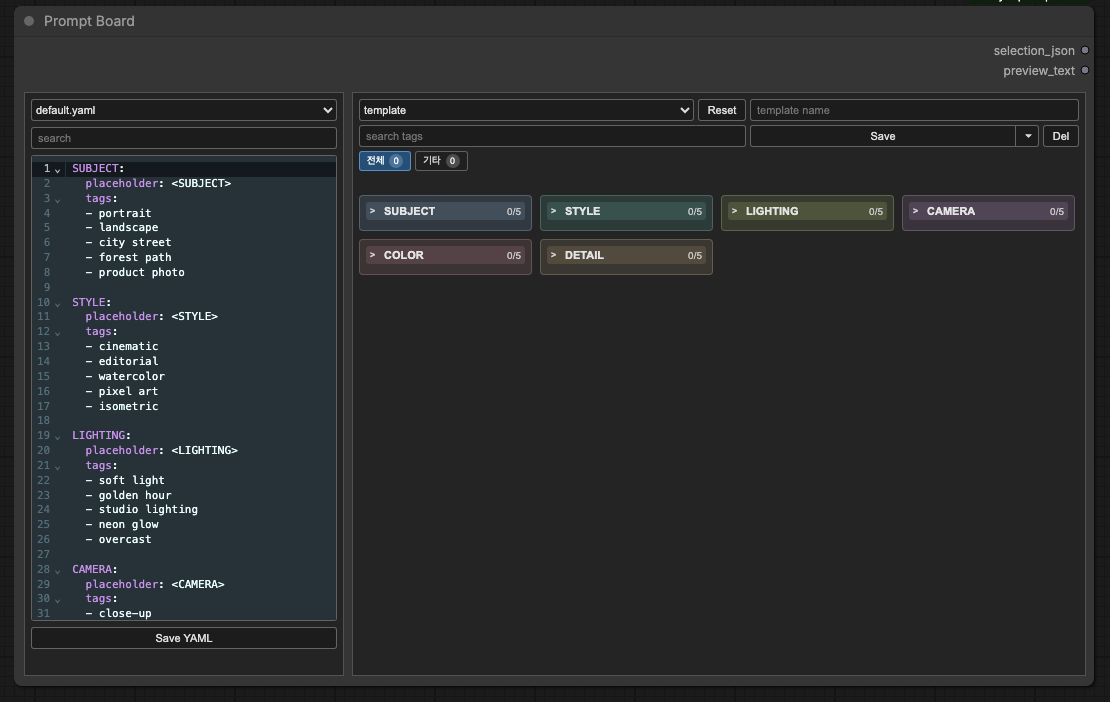
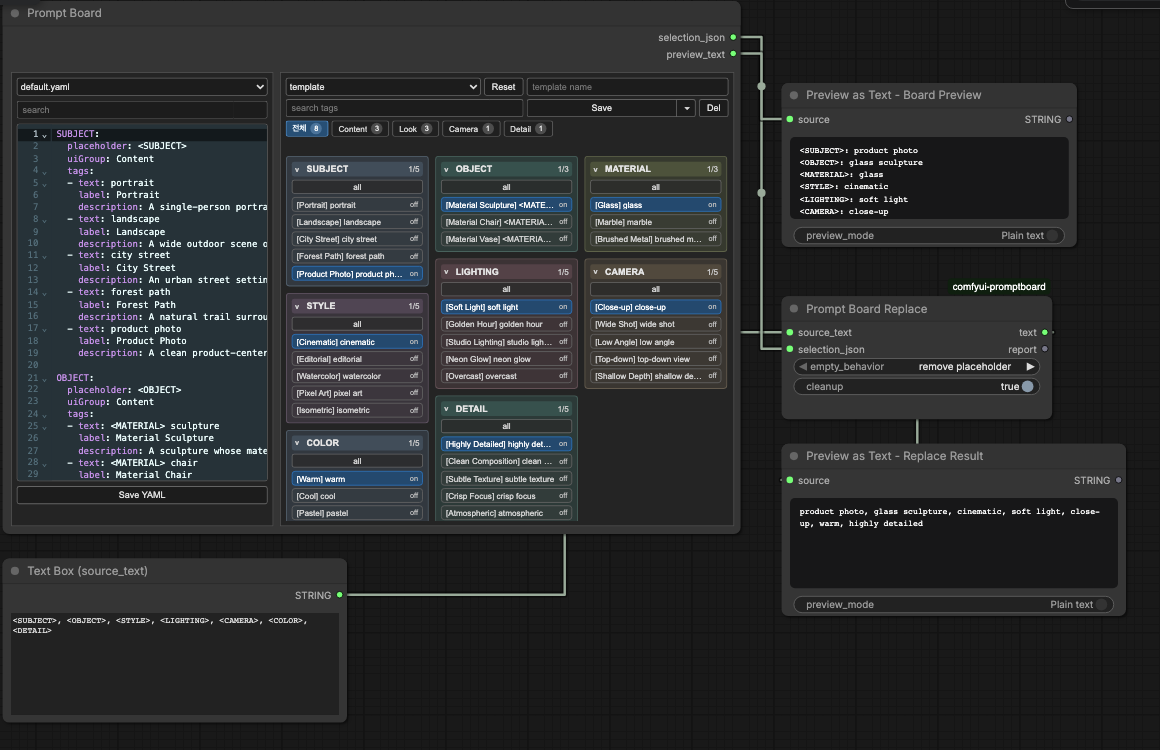
docs: update prompt board default example

diff --git a/README.md b/README.md
@@ -75,7 +75,13 @@ Disabled rows, empty names, `None`, and rows where both strengths are `0` are sk
 
 ### Prompt Board
 
-The board screenshot below uses the included `default.yaml` starter tag file.
+The workflow screenshot below uses the included `default.yaml` starter tag file. It shows the current board structure and a complete text flow:
+
+- `Text Box (source_text)` provides source text with placeholders.
+- `Prompt Board` selects YAML-managed tags and sends `preview_text` to `Preview as Text - Board Preview`.
+- `Prompt Board Replace` receives `source_text` and `selection_json`, then sends its replaced `text` output to `Preview as Text - Replace Result`.
+
+The example also demonstrates `uiGroup` filters, tag labels, descriptions, selected-count badges, and nested replacement through `replaceInsideTags`.
 
 ![Prompt Board using default.yaml](docs/images/promptboard-default.png)
 
@@ -93,44 +99,111 @@ YAML files live in:
 ComfyUI/custom_nodes/comfyui-promptboard/tags/
 ```
 
-`default.yaml` is included as a starter file.
+`default.yaml` is included as a starter file and demonstrates the current YAML structure.
 
 Example:
 
 ```yaml
 STYLE:
   placeholder: <STYLE>
+  uiGroup: Look
   tags:
-  - cinematic
-  - editorial
-  - watercolor
+  - text: cinematic
+    label: Cinematic
+    description: Film-like lighting, composition, and mood.
+  - text: editorial
+    label: Editorial
+    description: Polished magazine-style visual direction.
+  - text: watercolor
+    label: Watercolor
+    description: Soft painted texture with translucent color.
 
 COLOR:
   placeholder: <COLOR>
+  uiGroup: Look
   tags:
-  - warm
-  - cool
-  - pastel
+  - text: warm
+    label: Warm
+    description: Reds, oranges, yellows, or warm color balance.
+  - text: cool
+    label: Cool
+    description: Blues, cyans, violets, or cool color balance.
+  - text: pastel
+    label: Pastel
+    description: Soft, low-saturation color palette.
 ```
+
+Each top-level key is a board category.
+
+- `placeholder`: the placeholder replaced by `Prompt Board Replace`
+- `uiGroup`: the board filter group shown above the cards
+- `tags`: selectable prompt fragments for the category
+
+Tags can be written as plain strings for quick editing:
+
+```yaml
+DETAIL:
+  placeholder: <DETAIL>
+  uiGroup: Detail
+  tags:
+  - highly detailed
+  - crisp focus
+```
+
+Use object tags when the UI should show a friendly label or description:
+
+```yaml
+DETAIL:
+  placeholder: <DETAIL>
+  uiGroup: Detail
+  tags:
+  - text: highly detailed
+    label: Highly Detailed
+    description: Extra visible detail in surfaces and objects.
+  - text: crisp focus
+    label: Crisp Focus
+    description: Sharp subject edges and clear focal detail.
+```
+
+Object tag fields:
+
+- `text`: the actual prompt text used for replacement
+- `label`: optional UI label shown on the board
+- `description`: optional tooltip/search description
+- `default`: optional boolean; selected automatically when the category has no saved selection
+
+`value` is also accepted as an alias for `text`, but new YAML files should use `text`.
 
 ### Nested Replacement
 
 Use `replaceInsideTags: true` when a category is meant to replace placeholders inside another selected tag.
 
 ```yaml
-CLOTHES:
-  placeholder: <CLOTHES>
+OBJECT:
+  placeholder: <OBJECT>
+  uiGroup: Content
   tags:
-  - <COLOR> jacket
-  - <COLOR> shirt
+  - text: <MATERIAL> sculpture
+    label: Material Sculpture
+    description: A sculpture whose material is filled by the MATERIAL category.
+  - text: <MATERIAL> chair
+    label: Material Chair
+    description: A chair whose material is filled by the MATERIAL category.
 
-COLOR:
-  placeholder: <COLOR>
+MATERIAL:
+  placeholder: <MATERIAL>
+  uiGroup: Content
   replaceInsideTags: true
   tags:
-  - black
-  - white
+  - text: glass
+    label: Glass
+    description: Transparent or reflective glass material.
+  - text: marble
+    label: Marble
+    description: Polished stone with natural veining.
 ```
+
+If `OBJECT` selects `<MATERIAL> sculpture` and `MATERIAL` selects `glass`, `Prompt Board Replace` resolves the selected object as `glass sculpture`.
 
 ## Installation
 
